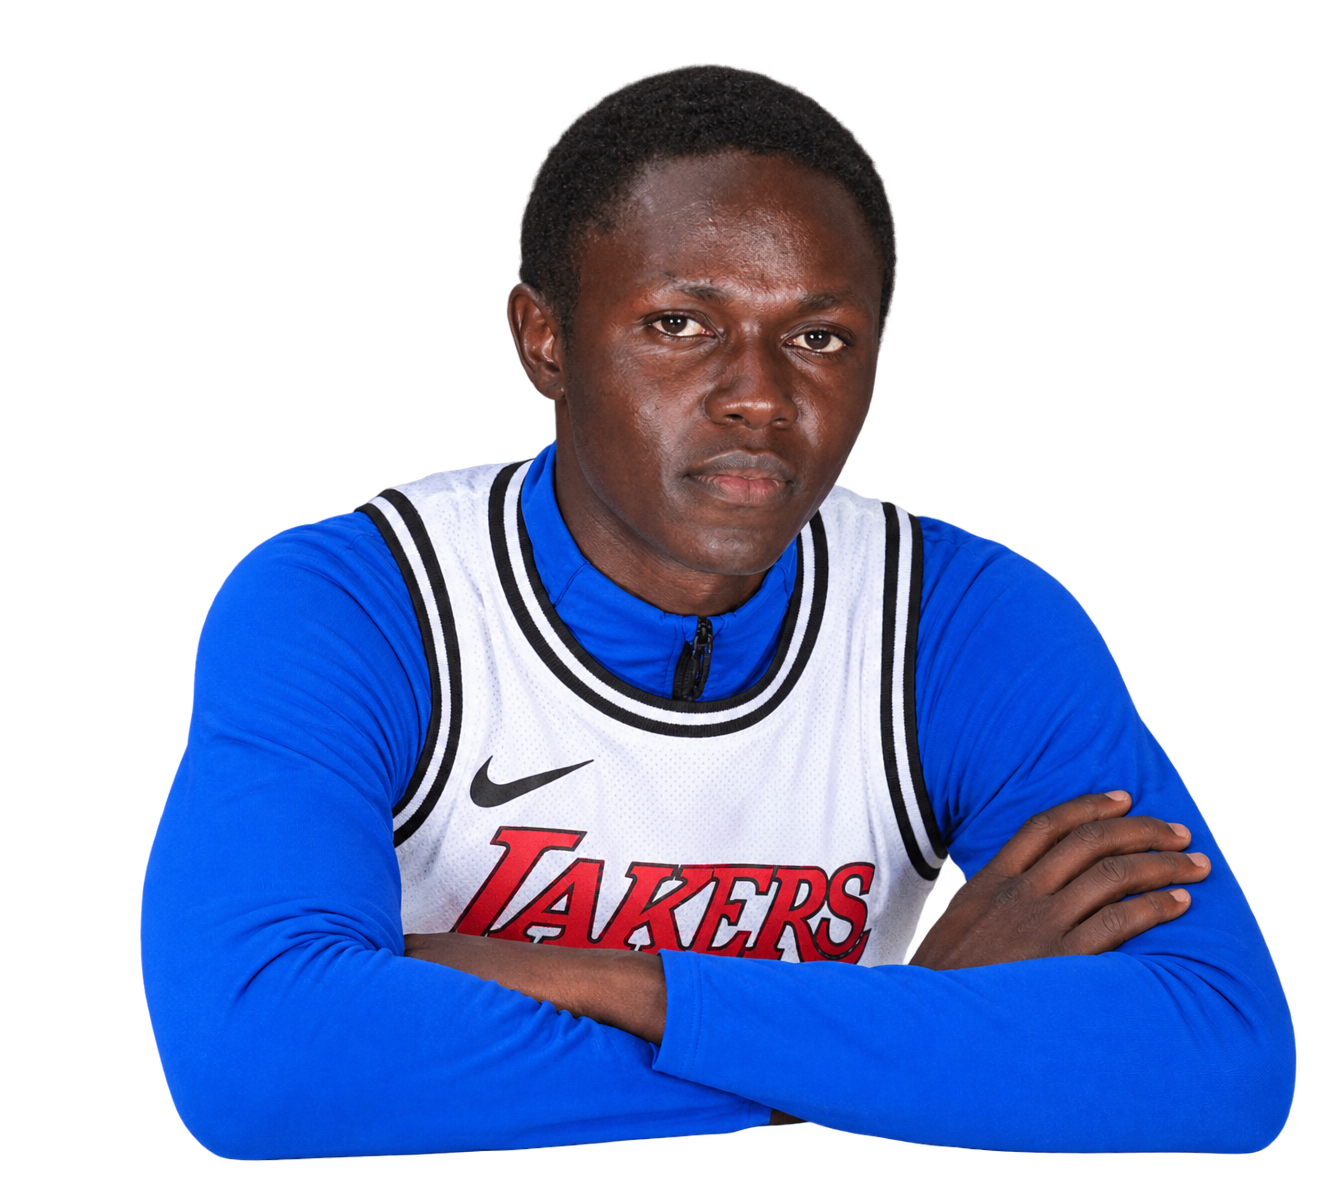
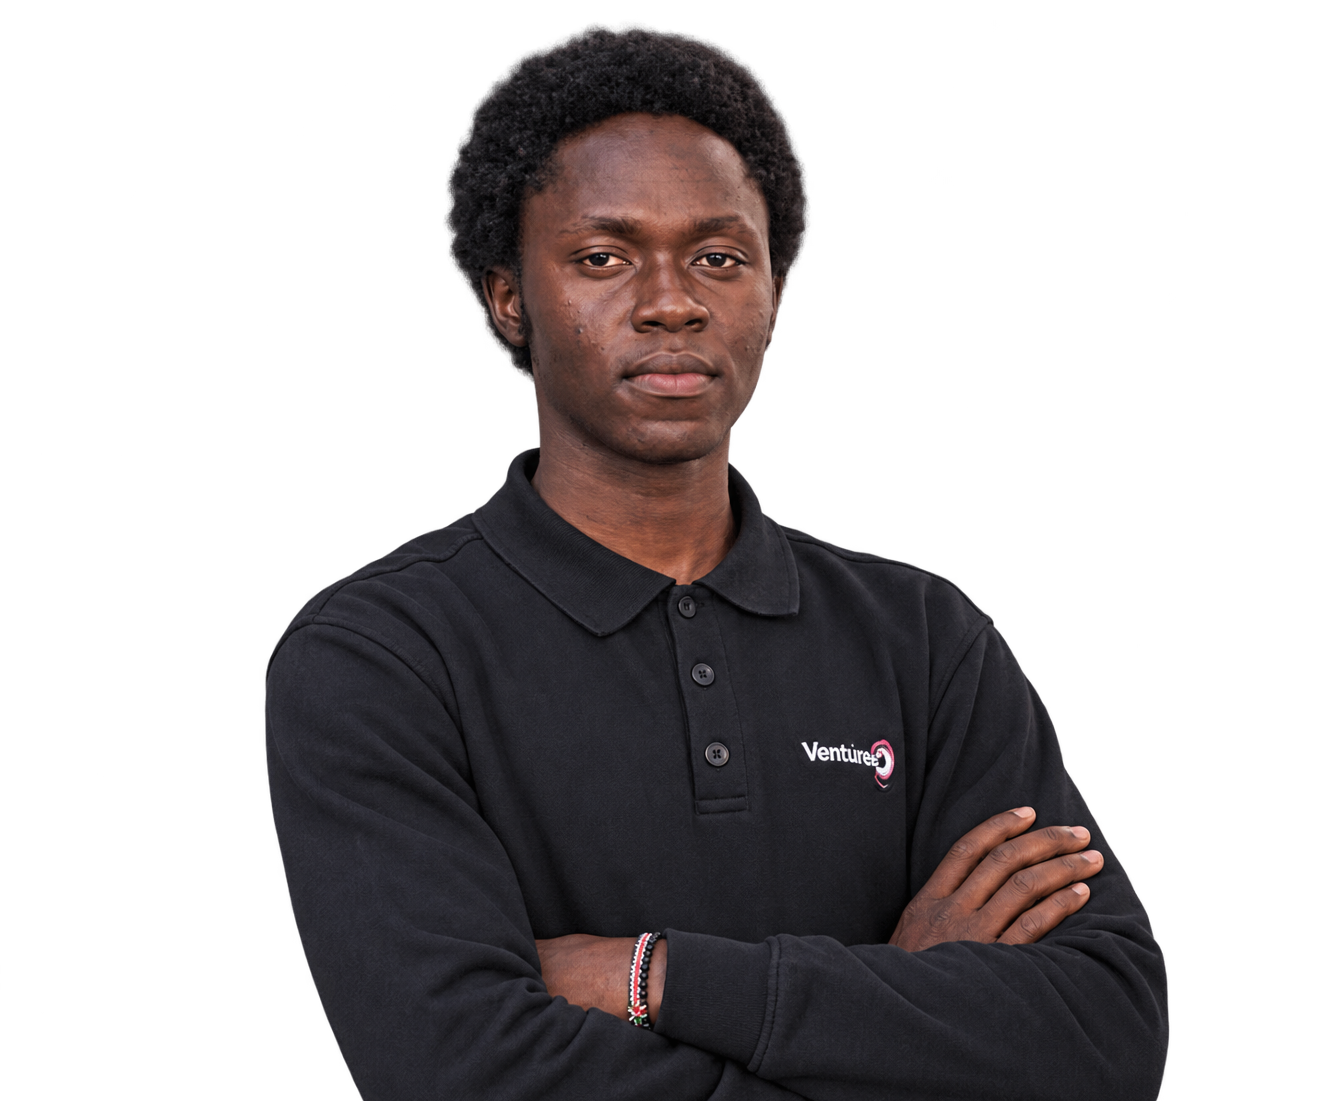
changing maloba's pic

diff --git a/src/App.jsx b/src/App.jsx
@@ -6,7 +6,7 @@ import accessLogo from "../assets/access logo.png";
 import andreaneKaniaru from "../assets/andreane-kaniaru.png";
 import darrenFadhili from "../assets/fadhili-darren.png";
 import flashlightLogo from "../assets/flashlight-logo.png";
-import isaacMaloba from "../assets/isaac-maloba.png";
+import isaacMaloba from "../assets/isaac-maloba.jpeg";
 import jacksonKagema from "../assets/jackson-kagema.png";
 import jamesGichaga from "../assets/james-gichaga.png";
 import mwanacheckLogo from "../assets/mwanacheck logo.png";
@@ -93,12 +93,12 @@ const projects = [
 ];
 
 const people = [
-  ["DF", "Darren Fadhili", "Core / ACCESS", darrenFadhili, "https://darrenfadhili.bolt.host", darrenFadhiliProfile],
-  ["VM", "Victor Manee", "Core / MwanaCheck", victorManee, "https://victormanee.vercel.app", victorManeeProfile],
+  ["DF", "Darren Fadhili", "Founder / ACCESS", darrenFadhili, "https://darrenfadhili.bolt.host", darrenFadhiliProfile],
+  ["VM", "Victor Manee", "Founder / MwanaCheck", victorManee, "https://victormanee.vercel.app", victorManeeProfile],
   ["IM", "Isaac Maloba", "Founder / eGold", isaacMaloba, null, isaacMalobaProfile],
-  ["AK", "Andreane Kaniaru", "Core", andreaneKaniaru, null, andreaneKaniaruProfile],
-  ["JG", "James Gichaga", "Core", jamesGichaga, null, jamesGichagaProfile],
-  ["JK", "Jackson Kagema", "Core / Sauti Kenya", jacksonKagema, null, jacksonKagemaProfile]
+  ["AK", "Andreane Kaniaru", "Founder", andreaneKaniaru, null, andreaneKaniaruProfile],
+  ["JG", "James Gichaga", "Founder", jamesGichaga, null, jamesGichagaProfile],
+  ["JK", "Jackson Kagema", "Founder / Sauti Kenya", jacksonKagema, null, jacksonKagemaProfile]
 ];
 
 const founderDetails = {

diff --git a/src/styles.css b/src/styles.css
@@ -1195,13 +1195,13 @@ main {
   z-index: 1;
   pointer-events: none;
   left: -450px;
-  bottom: -120px;
-  width: 900px;
+  bottom: -110px;
+  width: 450px;
   height: auto;
   overflow: visible;
   transform: rotate(-1.5deg);
   transform-origin: bottom right;
-  --profile-left: -450px;
+  --profile-left: -250px;
   --profile-enter-left: -560px;
   animation: founder-figure-in 0.8s cubic-bezier(0.22, 1, 0.36, 1) both;
 }
@@ -1599,7 +1599,7 @@ main {
   .founder-profile-im {
     left: -85px;
     bottom: auto;
-    top: -190px;
+    top: -193px;
     width: 230px;
     height: 330px;
     transform: rotate(-1deg);
